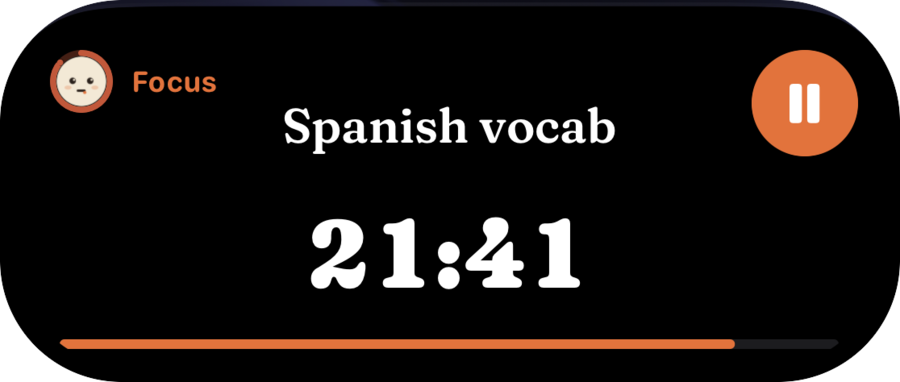
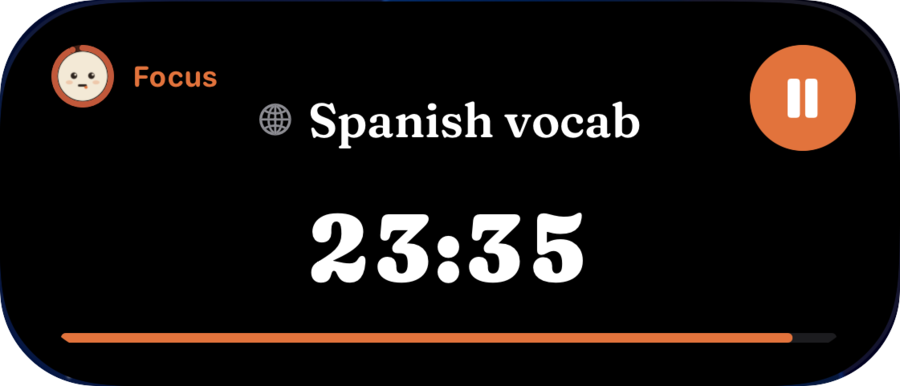
Retake the README screenshots on one clock (closes #53)

diff --git a/Shared/Model/TickPose+Session.swift b/Shared/Model/TickPose+Session.swift
@@ -6,25 +6,18 @@ extension TickPose {
 
     /// The hour Tick goes by at `date`. `shift` moves the time of day shown;
     /// it's zero except in Debug with `-DemoNow` (`DemoClock`).
-    static func hour(at date: Date, calendar: Calendar, shift: TimeInterval = demoShift) -> Int {
+    static func hour(at date: Date, calendar: Calendar, shift: TimeInterval = TimeFormat.demoShift) -> Int {
         calendar.component(.hour, from: date.addingTimeInterval(shift))
     }
 
     /// When night next starts and ends after `date`, in real time, so a still
     /// Tick falls asleep and wakes on time.
-    static func nightChanges(after date: Date, calendar: Calendar, shift: TimeInterval = demoShift) -> [Date] {
+    static func nightChanges(after date: Date, calendar: Calendar,
+                             shift: TimeInterval = TimeFormat.demoShift) -> [Date] {
         [22, 6].compactMap {
             calendar.nextDate(after: date.addingTimeInterval(shift), matching: DateComponents(hour: $0, minute: 0),
                               matchingPolicy: .nextTime)?.addingTimeInterval(-shift)
         }
-    }
-
-    static var demoShift: TimeInterval {
-        #if DEBUG
-        DemoClock.offset
-        #else
-        0
-        #endif
     }
 
     /// Tick in the app, for where the session stands. `overtime` is the

diff --git a/Shared/Design/Copy.swift b/Shared/Design/Copy.swift
@@ -125,7 +125,7 @@ enum Copy {
     /// paused by an older build says how much instead: "Paused · 12:34 left".
     static func pausedMeta(at pausedAt: Date?, remaining: TimeInterval) -> String {
         guard let pausedAt else { return String(localized: "Paused · \(TimeFormat.clock(remaining)) left") }
-        return String(localized: "Paused at \(TimeFormat.time(pausedAt))")
+        return String(localized: "Paused at \(TimeFormat.time(TimeFormat.shown(pausedAt)))")
     }
 
     /// "1 hour, 15 minutes of focus today": a widget's big total, read aloud.
@@ -243,10 +243,12 @@ enum Copy {
     }
 
     /// "Ends 14:30"
-    static func ends(_ date: Date) -> String { String(localized: "Ends \(TimeFormat.time(date))") }
+    static func ends(_ date: Date) -> String { String(localized: "Ends \(TimeFormat.time(TimeFormat.shown(date)))") }
 
     /// "Break until 14:30"
-    static func breakUntil(_ date: Date) -> String { String(localized: "Break until \(TimeFormat.time(date))") }
+    static func breakUntil(_ date: Date) -> String {
+        String(localized: "Break until \(TimeFormat.time(TimeFormat.shown(date)))")
+    }
 
     // MARK: History's subject filter (`subject` nil is "Other")
 

diff --git a/Clockin/Focus/FocusPieces.swift b/Clockin/Focus/FocusPieces.swift
@@ -110,14 +110,14 @@ struct FocusHeader: View {
             if session.isPaused {
                 return Copy.pausedMeta(at: session.pausedAt, remaining: session.remaining(at: now))
             }
-            let end = session.endDate ?? now
+            let end = TimeFormat.shown(session.endDate ?? now)
             return session.phase == .focus
                 ? TimeFormat.range(end.addingTimeInterval(-session.plannedDuration), end)
                 : String(localized: "Until \(TimeFormat.time(end))")
         case .focusComplete(let focus):
             // An old completion opens quietly, saying when it was.
             return engine.freshness(of: focus, at: now) == .stale
-                ? TimeFormat.finished(focus.completedAt, now: now)
+                ? TimeFormat.finished(TimeFormat.shown(focus.completedAt), now: TimeFormat.shown(now))
                 : Copy.breakLine(seconds: engine.breakLength(after: focus))
         }
     }

diff --git a/Shared/Design/RetroTheme.swift b/Shared/Design/RetroTheme.swift
@@ -226,6 +226,19 @@ enum TimeFormat {
         date.formatted(date: .omitted, time: .shortened)
     }
 
+    /// The time of day shown for a running session's `date`. Its timers keep
+    /// the real clock; in Debug, `-DemoNow` moves what's shown (`DemoClock`).
+    static func shown(_ date: Date) -> Date { date.addingTimeInterval(demoShift) }
+
+    /// Zero, except in Debug with `-DemoNow`.
+    static var demoShift: TimeInterval {
+        #if DEBUG
+        DemoClock.offset
+        #else
+        0
+        #endif
+    }
+
     /// "14:05 → 14:30"
     static func range(_ start: Date, _ end: Date) -> String {
         time(start) + rangeArrow + time(end)

diff --git a/ClockinTests/DemoClockTests.swift b/ClockinTests/DemoClockTests.swift
@@ -11,8 +11,9 @@ struct DemoClockTests {
         #expect(UserDefaults.standard.string(forKey: DemoClock.argumentKey) == nil)
         #expect(SharedStore.defaults.object(forKey: DemoClock.defaultsKey) == nil)
         #expect(DemoClock.offset == 0)
-        #expect(TickPose.demoShift == 0)
+        #expect(TimeFormat.demoShift == 0)
         let now = Date.now
+        #expect(TimeFormat.shown(now) == now)
         #expect(TickPose.hour(at: now, calendar: osloCalendar) == osloCalendar.component(.hour, from: now))
     }
 
